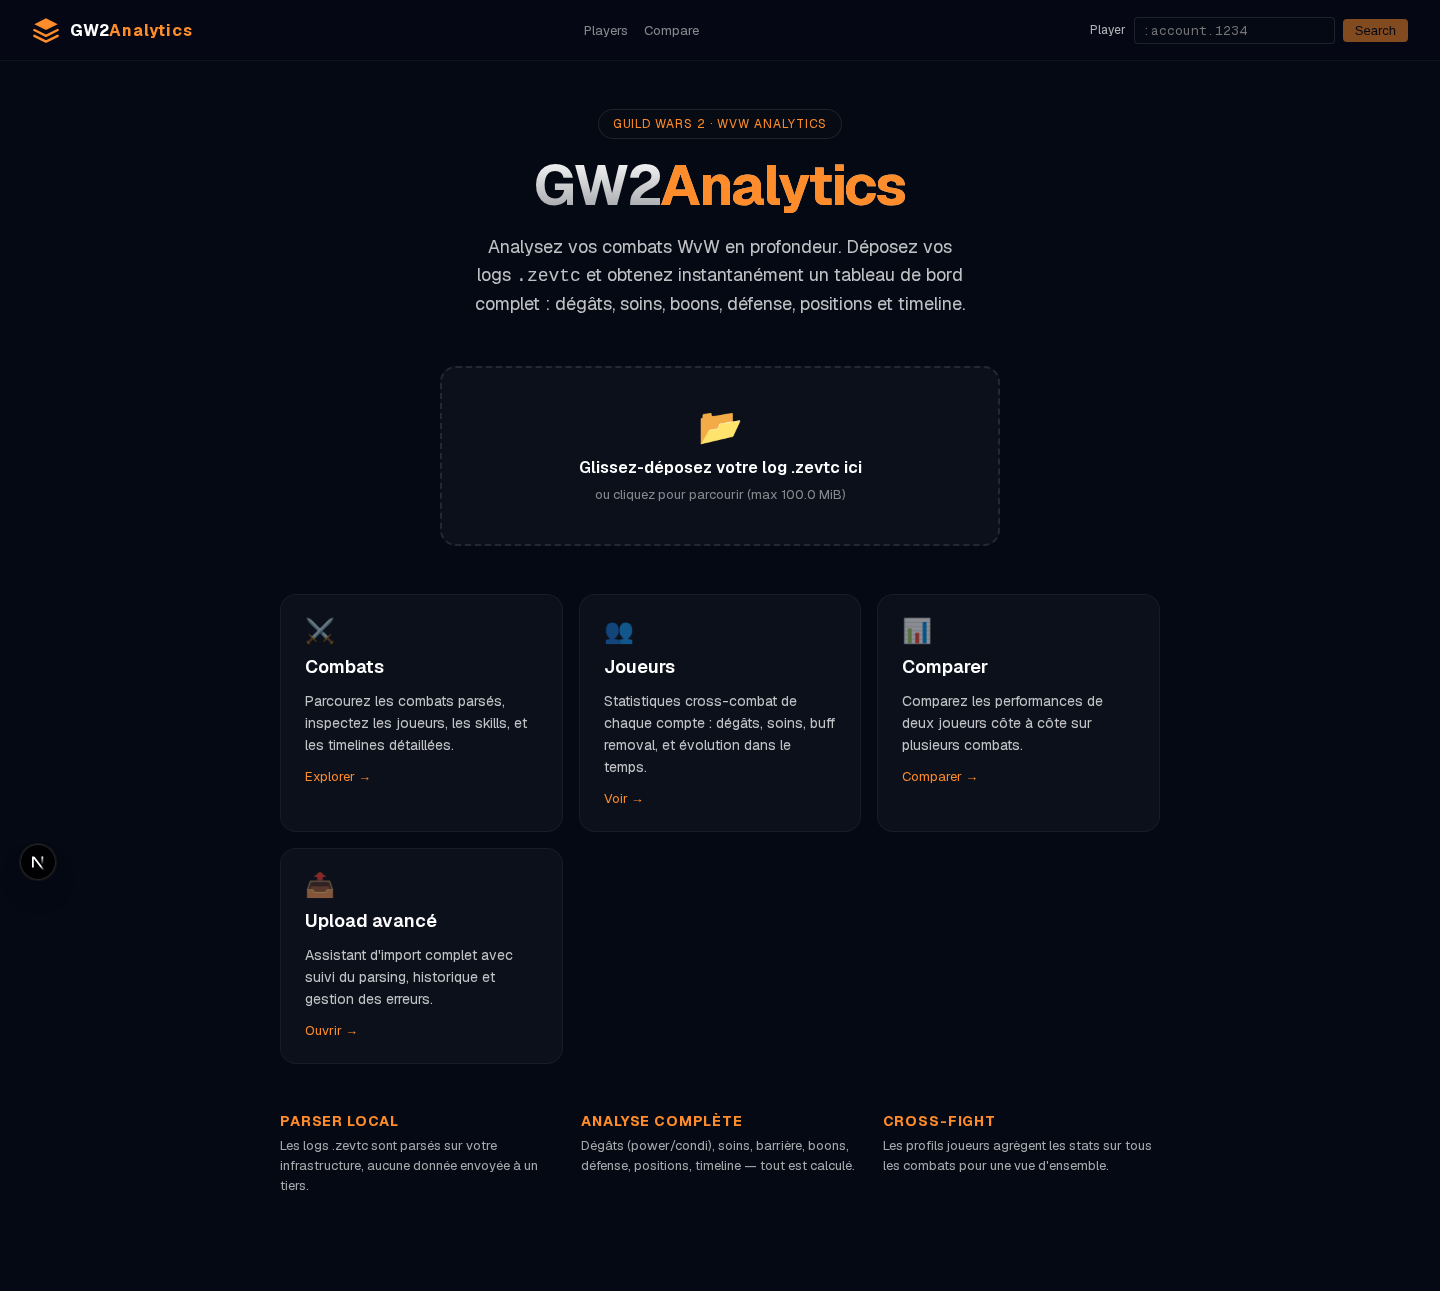
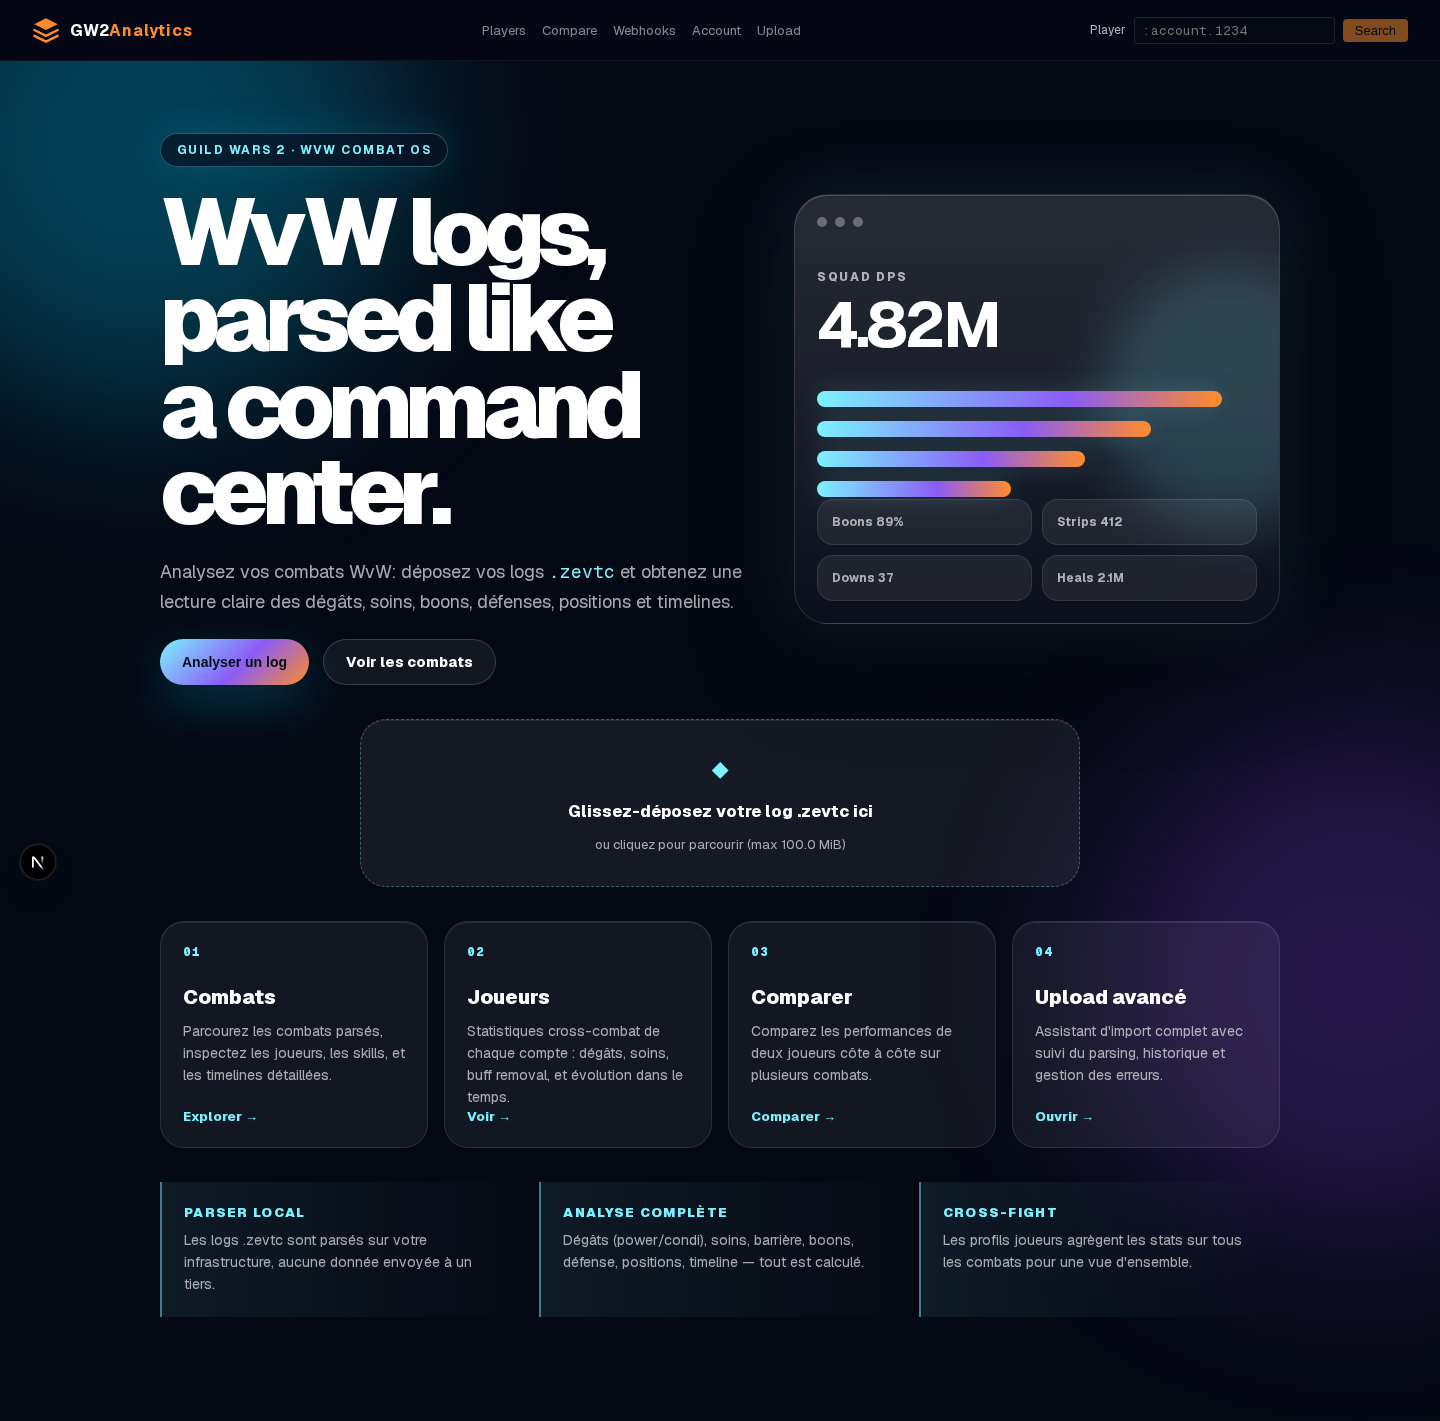
test(web): update landing visual contract

diff --git a/web/src/app/page.tsx b/web/src/app/page.tsx
@@ -95,7 +95,7 @@ export default function Home() {
       <section className={styles.hero}>
         <div className={styles.heroCopy}>
           <span className={styles.brand}>Guild Wars 2 · WvW Combat OS</span>
-          <h1 className={styles.title}>
+          <h1 className={styles.title} aria-label="GW2Analytics">
             WvW logs, parsed like a command center.
           </h1>
           <p className={styles.tagline}>
